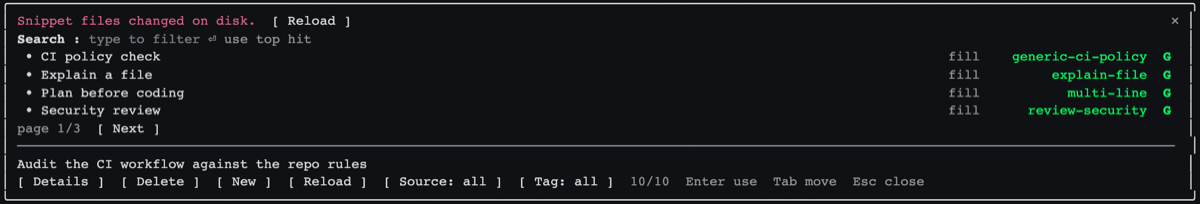
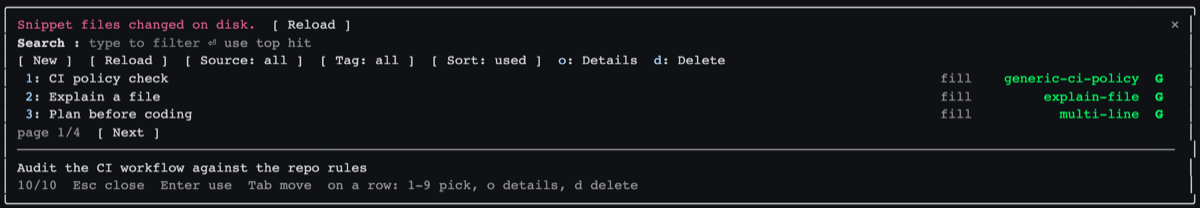
feat(main): tools row above results, v0.2.1
Source/Tag keep focus; o/d act on the focused row; Back from Details refocuses the opened row; Tag cycles the current source's tags; hint starts with Esc close; README screenshots retaken.

diff --git a/hooks/register.tsx b/hooks/register.tsx
@@ -29,7 +29,7 @@ const trashRef = { plugin: 'cyberine-snippets', key: 'trash' } as const
 const PANE = 'snippets'
 const PANE_ROWS = 20
 const INLINE_BUDGET = 11
-const TOOLS_ONE_ROW = 126
+const TOOLS_ONE_ROW = 100
 const TRIGGER = ';;'
 const SLUG_FIRST = /^[A-Za-z0-9]/
 const SLUG_BAD = /[^A-Za-z0-9._-]/
@@ -142,6 +142,13 @@ async function go($: EngineInterface, view: View): Promise<void> {
 function firstTrashKey(items: readonly TrashItem[]): string {
   const first = items[0]
   return first ? 't:' + first.path : 'trash-back'
+}
+
+async function backToRow($: EngineInterface, path: string): Promise<void> {
+  await go($, { screen: 'list' })
+  await $.ui.open({ id: PANE, title: 'Snippets', focus: true, closeOnEscape: true, holdToasts: true, rows: PANE_ROWS })
+  const onRow = await $.ui.focus({ requestId: PANE, key: 'r:' + path }).catch(() => ({ deny: 'failed' }))
+  if (onRow.deny !== undefined) await $.ui.focus({ requestId: PANE, key: 'q' }).catch(() => undefined)
 }
 
 async function claimKeys($: EngineInterface, key: string | null): Promise<void> {
@@ -632,7 +639,7 @@ async function renderList($: EngineInterface, e: PaneEvent) {
   const matches = (q: string, f: Filter) => rank(all.filter(s => (f.source === 'all' || s.source === f.source) && (!f.tag || s.tags.includes(f.tag))), q, usage, { recent, by: sortBy })
   const hits = matches(query, filter)
   const toolsWrap = cols < TOOLS_ONE_ROW ? 1 : 0
-  const extraRows = (held && held.text.trim() ? 2 : 0) + (stale ? 1 : 0) + toolsWrap
+  const extraRows = (held && held.text.trim() ? 2 : 0) + (stale ? 1 : 0) + toolsWrap + 1
   const layout = layoutFor(placement, placement === 'dock' ? e.props.scroll.bodyRows : INLINE_BUDGET, extraRows)
   const size = layout.rows
   const pages = Math.max(1, Math.ceil(hits.length / size))
@@ -645,7 +652,7 @@ async function renderList($: EngineInterface, e: PaneEvent) {
     : layout.previewLines === 1
       ? [plainLine(shortDesc(focusedHit))].filter(l => l.trim() !== '')
       : previewOf(focusedHit, layout.previewLines).filter(l => l.trim() !== '')
-  const tags = [...new Set(all.flatMap(s => s.tags))].sort()
+  const tags = [...new Set(all.filter(s => filter.source === 'all' || s.source === filter.source).flatMap(s => s.tags))].sort()
   const errors = library?.errors.length ?? 0
   const hasProject = Boolean(library?.roots.project)
 
@@ -725,6 +732,15 @@ async function renderList($: EngineInterface, e: PaneEvent) {
       {staleRow}
       {saveDraftButton}
       <Input key="q" label="Search " autoFocus placeholder="type to filter" value={query} submitLabel="use top hit" onInput={setQuery} onSubmit={submitSearch} />
+      <Box key="tools" flexDirection="row" flexWrap="wrap" columnGap={2}>
+        <Button plain key="new" onPress={openNew}>[ New ]</Button>
+        <Button plain key="reload" onPress={reloadNow}>[ Reload ]</Button>
+        <Button plain key="src" onPress={() => patchFilter({ source: nextSource(filter.source, hasProject) })}>{`[ Source: ${filter.source} ]`}</Button>
+        {tags.length > 0 ? <Button plain key="tag" onPress={() => patchFilter({ tag: nextTag(filter.tag, tags) })}>{`[ Tag: ${filter.tag || 'all'} ]`}</Button> : null}
+        <Button plain key="sort" onPress={toggleSort}>{'[ Sort: ' + sortBy + ' ]'}</Button>
+        {focusedHit ? <Button plain key="details" hotkey="o" onPress={() => { void go($, { screen: 'detail', path: focusedHit.path }) }}>Details</Button> : null}
+        {focusedHit ? <Button plain key="list-del" hotkey="d" onPress={() => { void go($, { screen: 'delete', path: focusedHit.path, back: 'list' }) }}>Delete</Button> : null}
+      </Box>
       <Box key="results" flexDirection="column" marginTop={layout.hasMargins ? 1 : 0} paddingLeft={1}>
         {shown.length === 0 ? (
           <Box key="none" flexDirection="column">
@@ -760,16 +776,7 @@ async function renderList($: EngineInterface, e: PaneEvent) {
           {previewText.map((line, i) => <Text key={`p-l${i}`} wrap="truncate-end">{line}</Text>)}
         </Box>
       ) : null}
-      <Box key="tools" flexDirection="row" flexWrap="wrap" columnGap={2} marginTop={layout.hasMargins ? 1 : 0}>
-        {focusedHit ? <Button plain key="details" onPress={() => { void go($, { screen: 'detail', path: focusedHit.path }) }}>[ Details ]</Button> : null}
-        {focusedHit ? <Button plain key="list-del" onPress={() => { void go($, { screen: 'delete', path: focusedHit.path, back: 'list' }) }}>[ Delete ]</Button> : null}
-        <Button plain key="new" onPress={openNew}>[ New ]</Button>
-        <Button plain key="reload" onPress={reloadNow}>[ Reload ]</Button>
-        <Button plain key="src" onPress={() => patchFilter({ source: nextSource(filter.source, hasProject) })}>{`[ Source: ${filter.source} ]`}</Button>
-        {tags.length > 0 ? <Button plain key="tag" onPress={() => patchFilter({ tag: nextTag(filter.tag, tags) })}>{`[ Tag: ${filter.tag || 'all'} ]`}</Button> : null}
-        <Button plain key="sort" onPress={toggleSort}>{'[ Sort: ' + sortBy + ' ]'}</Button>
-        <Text key="hint" {...LOOK.hint} wrap="truncate-end">{String(hits.length) + '/' + String(all.length) + (errors > 0 ? ' (' + String(errors) + ' skipped)' : '') + (notice ? '  ' + notice : '') + '  Enter use  Tab then 1-9 pick  Esc close'}</Text>
-      </Box>
+      <Text key="hint" {...LOOK.hint} wrap="truncate-end">{String(hits.length) + '/' + String(all.length) + (errors > 0 ? ' (' + String(errors) + ' skipped)' : '') + (notice ? '  ' + notice : '') + '  Esc close  Enter use  Tab move  on a row: 1-9 pick, o details, d delete'}</Text>
     </Box>
   )
 }
@@ -779,7 +786,7 @@ async function renderDetail($: EngineInterface, e: PaneEvent, path: string) {
   const s = await byPath($, path)
   if (!s) return gone($, e, 'This snippet')
   const names = placeholdersOf(s.body)
-  const back = () => { void go($, { screen: 'list' }) }
+  const back = () => { void backToRow($, s.path) }
   const error = (await $.state.get(formErrorRef)).value ?? ''
   const lib = await getLibrary($)
   const root = s.source === 'project' ? lib?.roots.project : lib?.roots.global

diff --git a/tests/ui.test.tsx b/tests/ui.test.tsx
@@ -136,7 +136,7 @@ describe('page size', () => {
     await $.command.run(run(''))
     const tiny = { ...paneProps(60, 'inline'), scroll: { offset: 0, bodyRows: 3 } }
     const ui = await $.ui.mount({ plugin: PLUGIN, surface: 'terminal', component: 'Pane', requestId: PANE, props: tiny })
-    expect((await ui.findAll({ type: "Button" })).filter(b => (b.key ?? "").startsWith("r:"))).toHaveLength(4)
+    expect((await ui.findAll({ type: "Button" })).filter(b => (b.key ?? "").startsWith("r:"))).toHaveLength(3)
     await ui.unmount()
   })
 })

diff --git a/README.md b/README.md
@@ -6,7 +6,7 @@ A Claude Code plugin that keeps your saved prompts as plain Markdown files and p
 
 Requires Claude Code 2.1.287 or newer. The plugin is a mod (function hooks), which loads in the terminal and in the Desktop app's Code tab. The VS Code chat panel and `claude -p` run its commands but draw no pane, so use `/sn list` there.
 
-![The picker docked beside the transcript](assets/screenshot-picker-dock.png)
+![The picker docked beside the transcript: search, the tools row, numbered results and a preview](assets/screenshot-picker-dock.png)
 
 ![Typing "rev" narrows the list; the focused snippet previews below](assets/screenshot-picker-search.png)
 
@@ -68,9 +68,9 @@ A file that fails to parse is skipped and listed by `/sn doctor`; it never stops
 
 ### Find and use a snippet
 
-`/snippets` (or `/sn`) opens the pane with the search field focused. Typing filters by title, slug, tags and description; a slug segment prefix ranks high, so `ci` finds `generic-ci-policy` first. With an empty search the most-used snippets come first. Each result is one line: the title, its mode, its slug and `G` (global) or `P` (project); below a divider the focused snippet previews.
+`/snippets` (or `/sn`) opens the pane with the search field focused. Typing filters by title, slug, tags and description; a slug segment prefix ranks high, so `ci` finds `generic-ci-policy` first. With an empty search the most-used snippets come first. Each result is one line: the title, its mode, its slug and `G` (global) or `P` (project); below a divider the focused snippet previews, and the bottom line shows the counts and keys.
 
-Down or Tab moves from the search field to the results; Enter on a result applies it, and Enter in the search field applies the top hit. Once the focus is on the results, `1` to `9` apply the first nine rows; while the search field has the focus, digits are typed into the search. The Sort button switches the order between most used and most recently used, and remembers the choice. Pinned snippets (a `*` after the source letter) come first.
+Below the search field sits the tools row (New, Reload, Source, Tag, Sort, Details, Delete), then the results. Down or Tab moves from the search field through the tools row to the results; Enter on a result applies it, and Enter in the search field applies the top hit. Once the focus is past the search field, `1` to `9` apply the first nine rows; while the search field has the focus, digits are typed into the search. Details and Delete act on the focused result: on a result row, press `o` for its details or `d` to delete it, without moving the focus. The Tag button cycles only the tags of the snippets the Source filter shows. The Sort button switches the order between most used and most recently used, and remembers the choice. Pinned snippets (a `*` after the source letter) come first.
 
 When you know the slug, `/sn <slug>!` skips the picker: the snippet is applied at once, a snippet with placeholders opens its form, and an unknown slug opens the picker filtered. A `fill` snippet lands in the prompt box and the pane closes; a second Enter then sends it to Claude as with anything you type, so review it first. A `submit` snippet is sent at once.
 

diff --git a/CHANGELOG.md b/CHANGELOG.md
@@ -2,6 +2,14 @@
 
 All notable changes to Cyberine Snippets. Versions follow `version` in `.claude-plugin/plugin.json`.
 
+## [0.2.1] - 2026-10-02
+
+- The list's tools row now sits right below the search field, above the results. Filtering with Source or Tag keeps the focus on that button, and a short inline pane cuts the end of the list instead of the tools.
+- On a result row, `o` opens its details and `d` deletes it; the Tag button cycles only the tags of the current source.
+- `/sn doctor` and `/sn list` work before the picker was opened in the session.
+- Move starts at the top level of the target folder and shows the snippet's current folder; one error line, cleared as you type.
+- Pinned rows keep the columns aligned.
+
 ## [0.2.0] - 2026-10-02
 
 - Move a snippet from Details (`m`): switch between the global and project folders and choose a subfolder. Nothing is overwritten; a slug that already exists in the target folder is refused.
